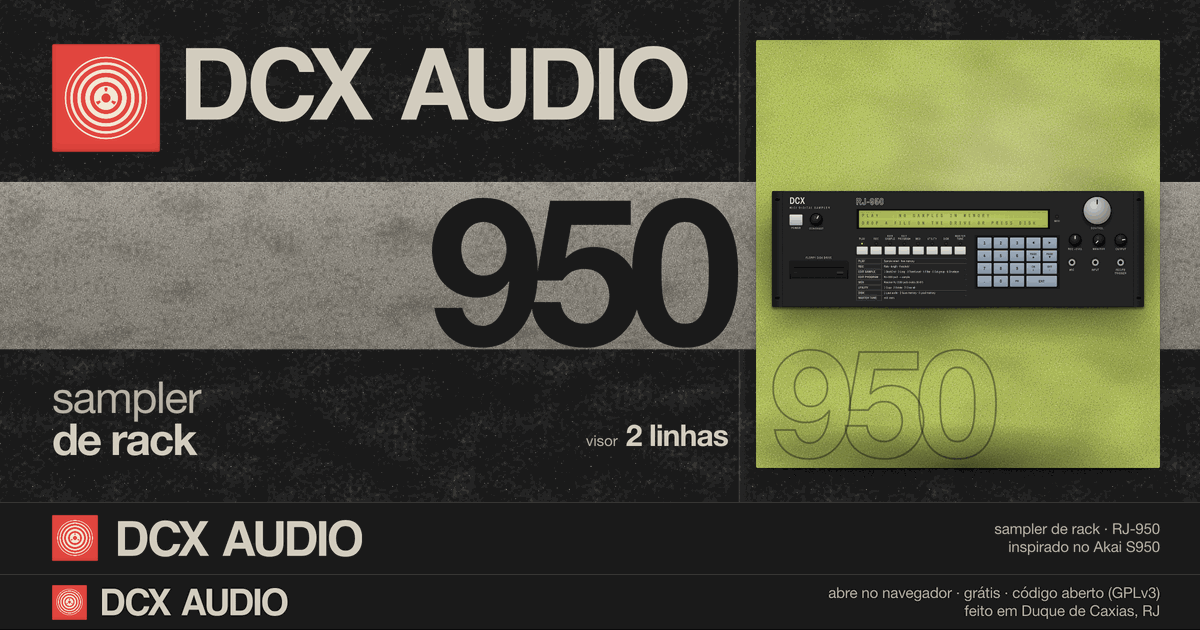
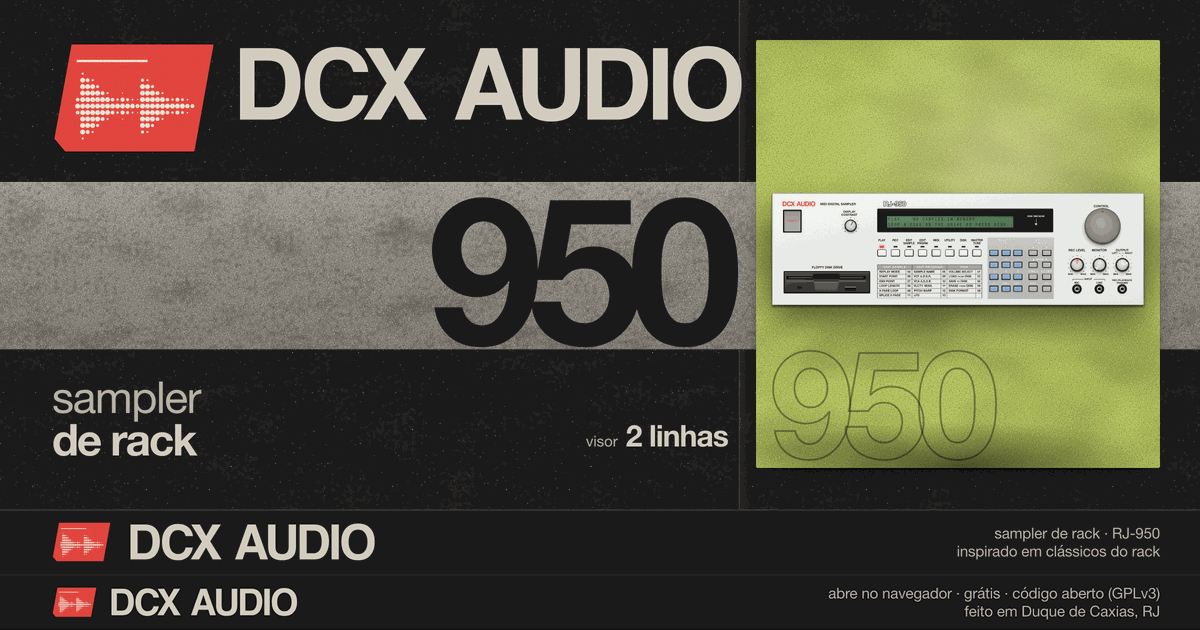
Face nova do RJ-950 na home e nas imagens de compartilhamento

diff --git a/index.html b/index.html
@@ -244,7 +244,7 @@ figcaption.leg{font-size:var(--dcx-t-sm);color:var(--dcx-prata);text-align:cente
       </article>
       <article class="fita fita--950 dcx-cor-rj950 dcx-escuro tx tx-capa tx-v3" aria-labelledby="m-950">
         <header class="fita-cab"><i class="dcx-selo dcx-selo--p" aria-hidden="true"></i><h3 class="fita-nome" id="m-950">RJ-950</h3><span class="fita-tipo">Rack</span></header>
-        <div class="fita-cor dcx-chapado tx tx-serigrafia tx-v3"><span class="dcx-numeral tx-tinta" aria-hidden="true">950</span><img src="img/rj950-480.webp" srcset="img/rj950-480.webp 480w, img/rj950-960.webp 960w" width="1400" height="433" loading="lazy" alt="Painel frontal do RJ-950, sampler de rack, com visor LCD de duas linhas e teclado numérico" sizes="(max-width:639px) calc(100vw - 56px), (max-width:899px) calc(50vw - 44px), 348px"></div>
+        <div class="fita-cor dcx-chapado tx tx-serigrafia tx-v3"><span class="dcx-numeral tx-tinta" aria-hidden="true">950</span><img src="img/rj950-480.webp" srcset="img/rj950-480.webp 480w, img/rj950-960.webp 960w" width="1400" height="422" loading="lazy" alt="Painel frontal do RJ-950, sampler de rack, com visor LCD de duas linhas e teclado numérico" sizes="(max-width:639px) calc(100vw - 56px), (max-width:899px) calc(50vw - 44px), 348px"></div>
         <div class="fita-pe"><div><p class="fita-frase">Sampler de rack de 12 bits, inspirado no S950.</p><div class="dcx-ficha" aria-label="Ficha técnica"><span>12 bits</span><span>32 pads</span><span>WAV · MP3</span><span>no drive</span><span>MIDI 36–67</span><span>MIDI Learn</span></div></div><div class="fita-acoes"><a class="dcx-btn dcx-btn--claro dcx-btn--p" href="https://dcxaudio.github.io/rj-950/">Abrir</a><a class="dcx-btn dcx-btn--link dcx-btn--p" href="https://github.com/dcxaudio/rj-950">Código</a></div></div>
       </article>
       <article class="fita fita--42 dcx-cor-rj42 dcx-escuro tx tx-capa" aria-labelledby="m-42">
